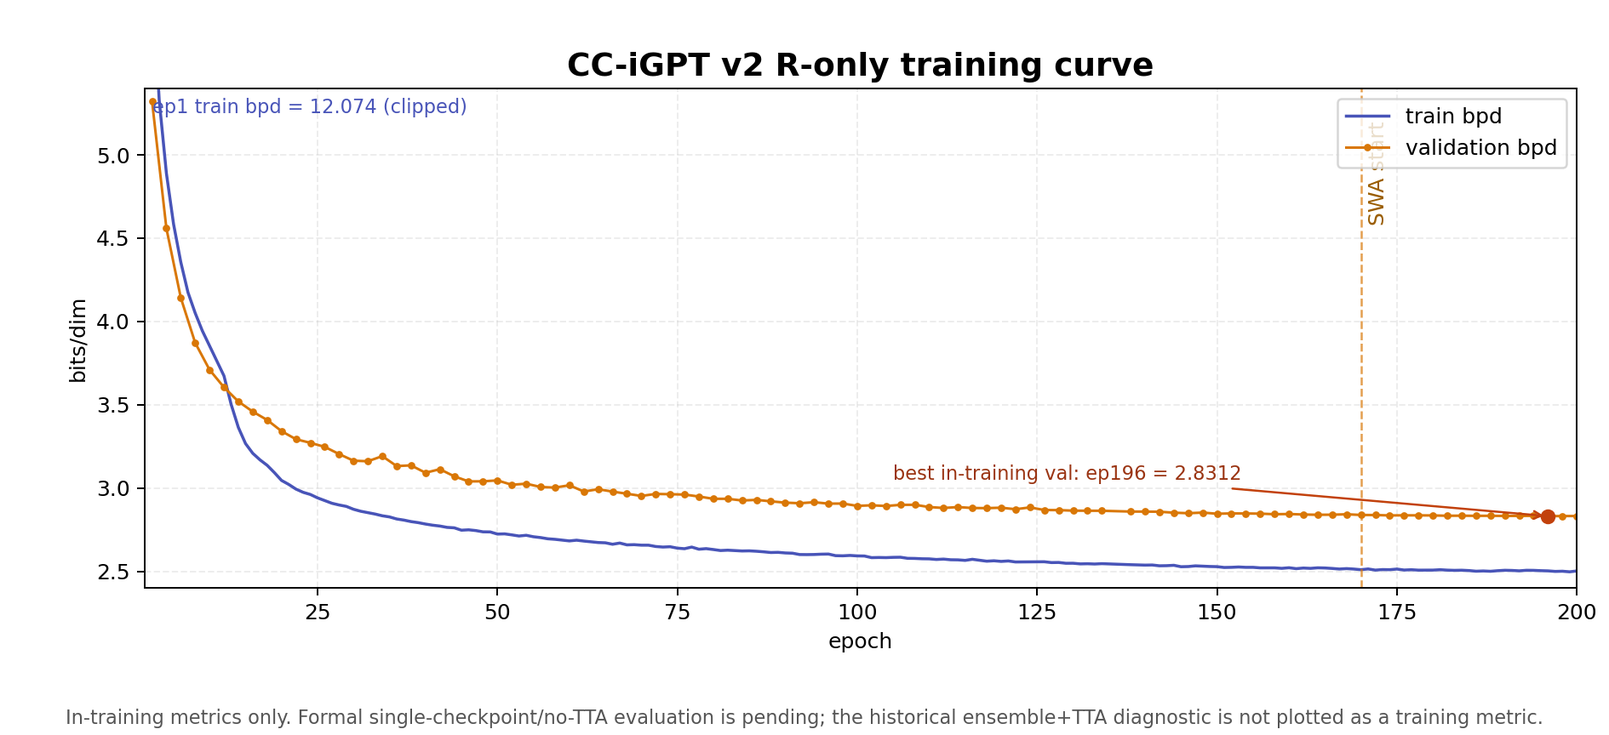
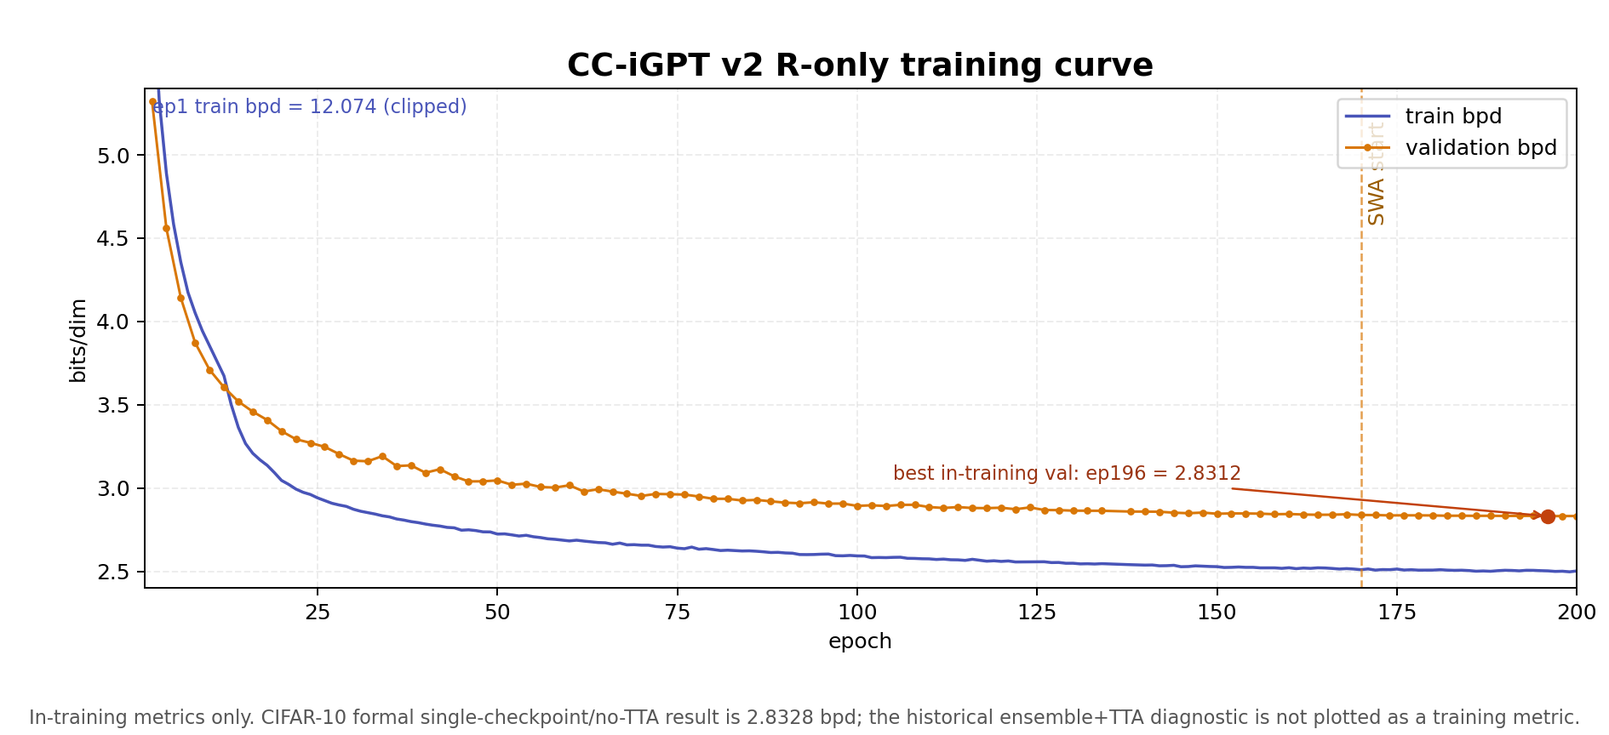
docs: sync formal CIFAR-10 roundtrip evidence

Changed region(s): [[0.0312, 0.9688, 0.9677, 1.0]]

diff --git a/demo/static/index.html b/demo/static/index.html
@@ -15,7 +15,7 @@
   <div class="dataset-toggle" role="radiogroup" aria-label="数据集切换">
     <label class="dataset-opt">
       <input type="radio" name="dataset-toggle" value="cifar10" checked>
-      <span>CIFAR-10 <small>legacy ens.+TTA 2.8296</small></span>
+      <span>CIFAR-10 <small>formal 2.8328; legacy ens.+TTA 2.8296</small></span>
     </label>
     <label class="dataset-opt">
       <input type="radio" name="dataset-toggle" value="imagenet64">

diff --git a/slides/defense.tex b/slides/defense.tex
@@ -159,7 +159,7 @@ p_\theta(x) \;=\; \prod_t p_\theta(x_t \mid x_{<t}),
 \end{frame}
 
 % ============================== 3. 历史结果与正式协议 ==============================
-\begin{frame}{历史实验：CIFAR-10 diagnostic protocol}
+\begin{frame}{CIFAR-10：历史诊断与正式评测}
 \begin{center}
 \includegraphics[width=0.92\linewidth]{baseline.png}
 \end{center}
@@ -171,7 +171,11 @@ p_\theta(x) \;=\; \prod_t p_\theta(x_t \mid x_{<t}),
 (82.95\,M/member, $K=3$ checkpoints, 200 ep, ensemble + TTA hflip, 6 forwards/image)
 
 \smallskip
-{\scriptsize 该协议下的历史实验结果，不作为单模型正式主表；CIFAR-10 正式结果待 single checkpoint / no-TTA / per-image manifest 重评。}
+\textbf{正式 single checkpoint / no-TTA}: \textcolor{ours}{\textbf{2.8328}} bpd
+(10,000 张，teacher-forced，bootstrap 95\% CI [2.8201, 2.8456])
+
+\smallskip
+{\scriptsize 2.8296 仅按 ensemble+TTA 诊断协议引用；2.8328 是正式单模型 teacher-forced NLL，二者都不等同于完整 arithmetic file bpd。}
 \end{frame}
 
 % ============================== 3b. ImageNet64 第二轨道（训练 2026-06-07；正式评测 2026-08-03） ==============================
@@ -407,7 +411,7 @@ $\to$ \texttt{re-tokenize} $\to$ \texttt{fine.token\_embed} $\to$ \texttt{AR shi
 \end{columns}
 
 \medskip
-{\centering\footnotesize\color{muted}图中与文中 ensemble+TTA 数字均为 diagnostic protocol 下的历史实验结果，不进入正式单模型主表。\par}
+{\centering\footnotesize\color{muted}图中同时标出正式 single/no-TTA 结果与 ensemble+TTA 历史诊断结果；二者协议和成本不同，不混作同一主表数字。\par}
 \end{frame}
 
 % ============================== 9. Triton Kernel (图) ==============================
@@ -596,7 +600,7 @@ representation 血脉承 iGPT，density 血脉承 Sparse Transformer（纯生成
 \textbf{Codec 证据边界}
 \begin{itemize}\setlength{\itemsep}{2pt}
   \item CPU：算术 coder、MDLC v2 容器、grouped codec 与 tiny-model roundtrip 已由测试覆盖
-  \item 真实 checkpoint 的 GPU roundtrip、文件 overhead 与跨环境复现仍待重跑
+  \item CIFAR-10 当前 identity-v2 manifest 已完成 2/2 GPU roundtrip；ImageNet64 仍待执行
   \item 历史 ensemble/TTA NLL 不是当前 codec 的文件码长
 \end{itemize}
 
@@ -604,7 +608,7 @@ representation 血脉承 iGPT，density 血脉承 Sparse Transformer（纯生成
 \textbf{结果}
 \begin{itemize}\setlength{\itemsep}{2pt}
   \item 当前可确认：CPU 单测覆盖的符号流与 tiny model 可 bit-identical roundtrip
-  \item 历史 2/2 图和 0.1--0.2\% overhead 尚无当前 schema v2 manifest，\alert{不作为正式结果}
+  \item CIFAR-10 当前 schema v5 附件验证 2/2 图 pixel-exact，并记录 payload / packed / file overhead
   \item {\scriptsize 正式回填需记录 checkpoint/config/CDF/runtime hash，并同时报告 payload bpd 与 file bpd。}
 \end{itemize}
 \end{column}
@@ -628,7 +632,7 @@ representation 血脉承 iGPT，density 血脉承 Sparse Transformer（纯生成
 
 \smallskip
 \textbf{3 分析} —— RGB-bit-exact 评估与 codec 对账 \\
-{\scriptsize 2.8296 / 3.4800 为三成员 ensemble+TTA 诊断协议下的历史实验结果；ImageNet64 正式 teacher-forced 单模型结果为 3.4812 bpd；CIFAR-10 正式主表、probe 与 GPU profiling 仍待按新协议回填。}
+{\scriptsize 2.8296 / 3.4800 为三成员 ensemble+TTA 诊断协议下的历史实验结果；CIFAR-10 / ImageNet64 正式 teacher-forced 单模型结果分别为 2.8328 / 3.4812 bpd；probe 与 GPU profiling 仍待按新协议回填。}
 \end{column}
 \begin{column}{0.50\textwidth}
 \small

diff --git a/figures/baselines.tex b/figures/baselines.tex
@@ -9,6 +9,8 @@
 %   Sparse Transformer  59M   2.80    Child et al., 2019 (128 层 strided)
 %   CC-iGPT v2 (historical experiment; diagnostic protocol) 82.95M/member (K=3) 2.8296
 %     R-only ensemble (best+SWA+EMA) + TTA hflip, 6 forwards/image；非正式单模型主表
+%   CC-iGPT v2 (formal protocol) 82.95M 2.8328
+%     single best.pth + no TTA + teacher-forced；10,000 张
 \documentclass[tikz,border=8pt]{standalone}
 \usepackage{tikz}
 \usepackage{pgfplots}
@@ -26,10 +28,9 @@
     ytick={2.70,2.75,2.80,2.82,2.85,2.90,2.95},
     ylabel={\textbf{bits/dim}\ },
     ylabel near ticks,
-    % 修复：明确指定所有5个x轴刻度，不再依赖xtick=data
-    xtick={SparseTrans, PixelSNAIL, ImgTrans, PixelCNNpp, Ours},
-    symbolic x coords={SparseTrans, PixelSNAIL, ImgTrans, PixelCNNpp, Ours},
-    xticklabels={Sparse Trans., PixelSNAIL, Img Trans., PixelCNN++, CC-iGPT(hist.)},
+    xtick={SparseTrans, PixelSNAIL, ImgTrans, PixelCNNpp, OursHist, OursFormal},
+    symbolic x coords={SparseTrans, PixelSNAIL, ImgTrans, PixelCNNpp, OursHist, OursFormal},
+    xticklabels={Sparse Trans., PixelSNAIL, Img Trans., PixelCNN++, CC-iGPT(hist.), CC-iGPT(formal)},
     xticklabel style={font=\scriptsize, yshift=-1pt},
     yticklabel style={font=\scriptsize},
     axis line style={gray!55},
@@ -48,9 +49,14 @@
     (PixelCNNpp,  2.92)
 };
 
-% 第5个柔和橘黄色柱子（单独绘制，完全独立，不会被覆盖）
+% 历史 ensemble+TTA 诊断柱
 \addplot[draw=orange!70!black, fill=orange!30!yellow!80, bar shift=0pt] coordinates {
-    (Ours, 2.8296)
+    (OursHist, 2.8296)
+};
+
+% 正式 single-checkpoint/no-TTA teacher-forced 柱
+\addplot[draw=teal!65!black, fill=teal!24, bar shift=0pt] coordinates {
+    (OursFormal, 2.8328)
 };
 
 % --- 参考线 1：PixelSNAIL 2.85；Ours 为不同成本、diagnostic protocol 下的历史实验，不作胜负结论 ---
@@ -72,13 +78,14 @@
 \node[font=\scriptsize, align=center, yshift=4pt] at (axis cs:PixelSNAIL, 2.85) {2.85 $\approx$91M};
 \node[font=\scriptsize, align=center, yshift=4pt] at (axis cs:ImgTrans, 2.90) {2.90 $\approx$40M};
 \node[font=\scriptsize, align=center, yshift=4pt] at (axis cs:PixelCNNpp, 2.92) {2.92 $\approx$53.5M};
-\node[font=\scriptsize, align=center, orange!70!black, yshift=4pt] at (axis cs:Ours, 2.8296) {2.8296\\82.95M/member, K=3};
+\node[font=\scriptsize, align=center, orange!70!black, yshift=4pt] at (axis cs:OursHist, 2.8296) {2.8296\\82.95M/member, K=3};
+\node[font=\scriptsize, align=center, teal!65!black, yshift=4pt] at (axis cs:OursFormal, 2.8328) {2.8328\\82.95M};
 
 \end{axis}
 
 % --- 标题 ---
 \node[font=\footnotesize\bfseries, anchor=south, yshift=3pt]
-    at (current bounding box.north) {CIFAR-10 RGB-bit-exact (historical ensemble+TTA diagnostic)};
+    at (current bounding box.north) {CIFAR-10 RGB-bit-exact (formal + historical protocols)};
 
 \end{tikzpicture}
 \end{document}

diff --git a/scripts/render_report_figures.py b/scripts/render_report_figures.py
@@ -20,6 +20,7 @@ def _method_label(name: str) -> str:
         "Sparse Transformer": "Sparse\nTransformer",
         "Image Transformer": "Image\nTransformer",
         "CC-iGPT R-only v2 (Ours)": "CC-iGPT v2\n(hist. ens.+TTA)",
+        "CC-iGPT R-only v2 formal (Ours)": "CC-iGPT v2\n(formal)",
     }
     return replacements.get(name, name.replace(" (Ours)", ""))
 
@@ -36,6 +37,7 @@ def render_cifar_baselines() -> None:
     labels = [_method_label(method["name"]) for method in methods]
     values = [method["bpd"] for method in methods]
     colors = [
+        "#2a9d8f" if method.get("primary") else
         "#f2b134" if "(Ours)" in method["name"] else "#b9c0e8"
         for method in methods
     ]
@@ -52,7 +54,7 @@ def render_cifar_baselines() -> None:
         params = method.get("params", "not reported")
         bpd = (
             f'{method["bpd"]:.4f}'
-            if method["name"] == "CC-iGPT R-only v2 (Ours)"
+            if "CC-iGPT" in method["name"]
             else f'{method["bpd"]:.2f}'
         )
         axis.text(
@@ -67,8 +69,8 @@ def render_cifar_baselines() -> None:
     fig.text(
         0.5,
         0.02,
-        "CC-iGPT 2.8296 is a historical 3-checkpoint probability mixture + hflip "
-        "(6 forwards/image), not the pending formal single-model result.",
+        "Formal single-checkpoint/no-TTA result: 2.8328 bpd; historical 2.8296 is a "
+        "3-checkpoint probability mixture + hflip diagnostic (6 forwards/image).",
         ha="center",
         fontsize=9,
         color="#9a5d00",
@@ -136,7 +138,7 @@ def render_cifar_training_curve() -> None:
     fig.text(
         0.5,
         0.015,
-        "In-training metrics only. CIFAR-10 formal single-checkpoint/no-TTA evaluation is pending; "
+        "In-training metrics only. CIFAR-10 formal single-checkpoint/no-TTA result is 2.8328 bpd; "
         "the historical ensemble+TTA diagnostic is not plotted as a training metric.",
         ha="center",
         fontsize=9,

diff --git a/figures/training_curves_v2.tex b/figures/training_curves_v2.tex
@@ -8,6 +8,7 @@
 %   landmark v2: ep1 train=12.07, ep10 val=3.34, ep90 val=2.879, ep170 SWA start, ep200 val=2.8322,
 %                ep196 best val=2.8312 (in-training, 无 TTA/SWA/EMA/ensemble)
 %   历史实验 v2（diagnostic protocol）：ensemble (best+SWA+EMA) + TTA hflip = 2.8296；旧 ±0.0854 口径已作废
+%   正式单模型/no-TTA teacher-forced 重评：2.8328 bpd（10,000 张）
 
 \documentclass[tikz,border=8pt]{standalone}
 \usepackage{tikz}
@@ -88,7 +89,7 @@
 % --- 副标题（实验配置） ---
 \node[font=\scriptsize, gray!50!black, anchor=north, yshift=-2pt]
     at (current bounding box.south)
-    {\textit{N=32/d=448 (82.95M) $\cdot$ warmup 5ep $\cdot$ EMA 0.9998 $\cdot$ SWA last 31 ckpts (start ep 170) $\cdot$ historical ensemble+TTA $=$ 2.8296; CIFAR-10 formal single-model result pending}};
+    {\textit{N=32/d=448 (82.95M) $\cdot$ warmup 5ep $\cdot$ EMA 0.9998 $\cdot$ SWA last 31 ckpts (start ep 170) $\cdot$ formal single/no-TTA teacher-forced $=$ 2.8328 $\cdot$ historical ensemble+TTA $=$ 2.8296}};
 
 \end{tikzpicture}
 \end{document}

diff --git a/figures/ensemble_compare.tex b/figures/ensemble_compare.tex
@@ -15,7 +15,7 @@
 % 参考线:
 %   v1 best+TTA 2.9035        — Phase B 历史实验（diagnostic protocol）
 %   PixelSNAIL 2.85           — 文献参考线；与三模型/TTA 配置不是同协议
-%   Sparse Transformer 2.80   — 文献参考线；CIFAR-10 正式比较等待单模型重评
+%   Sparse Transformer 2.80   — 文献参考线；CIFAR-10 正式 single/no-TTA 结果 2.8328
 
 \documentclass[tikz,border=8pt]{standalone}
 \usepackage{tikz}

diff --git a/future.md b/future.md
@@ -5,11 +5,11 @@
 ## 0. 2026-07-27 执行口径（优先级高于后文历史备忘）
 
 1. **当前主线不换模型、不改训练损失**：CC-iGPT 继续使用 `CE_coarse + CE_fine`。这是一种双流平衡训练目标，不等同于严格按真实码长加权；本轮代码修正不要求重训，也不使现有 checkpoint 失效。
-2. **正式结果分阶段更新**：CIFAR-10 `2.8296` 与 ImageNet64 `3.4800` 都是有效的历史实验结果，但其协议是三成员 ensemble + hflip TTA，在新 evaluator 中归入 diagnostic，而不是正式单模型主表。每个 CC-iGPT v2 checkpoint 是 `82,949,441` 参数；该协议加载 best/SWA/EMA 三组权重（K=3），而不是一个 248.85M 参数架构，hflip 后每张图共 6 次 forward。ImageNet64 已用现有 `best.pth` 完成 single-checkpoint/no-TTA teacher-forced 重评：`3.4812 bpd`（49,999 张，schema v5 manifest，逐图 std 0.9040，95% bootstrap CI `[3.4734, 3.4898]`）。CIFAR-10 仍需同协议重评；两者都不需要重训。
+2. **正式结果已完成**：CIFAR-10 `2.8296` 与 ImageNet64 `3.4800` 都是有效的历史实验结果，但其协议是三成员 ensemble + hflip TTA，在新 evaluator 中归入 diagnostic，而不是正式单模型主表。每个 CC-iGPT v2 checkpoint 是 `82,949,441` 参数；该协议加载 best/SWA/EMA 三组权重（K=3），而不是一个 248.85M 参数架构，hflip 后每张图共 6 次 forward。现有 `best.pth` 已完成两个数据集的 single-checkpoint/no-TTA teacher-forced 重评：CIFAR-10 **2.8328 bpd**（10,000 张，逐图 std 0.6719，95% bootstrap CI `[2.8201, 2.8456]`），ImageNet64 **3.4812 bpd**（49,999 张，逐图 std 0.9040，95% bootstrap CI `[3.4734, 3.4898]`）。CIFAR-10 另有 2 张 `verified_on_subset` sequential roundtrip，均 pixel-exact；两者都不需要重训。
 3. **Phase E 是并行研究分支，不替换 AR 无损主线**：目标是研究 Masked Diffusion Language Model (MDLM) / grouped ARDM 的 `实际码率 vs forward calls`，不是先承诺更低 bpd 或实时加速。Phase E 需要新的训练；现有 AR checkpoint 最多用于初始化兼容权重，不能直接当作 masked model 结果。
 4. **codec-first**：在任何大规模训练前，先用 tiny CIFAR/合成图完成真实 `encode -> file -> decode` 闭环。没有固定 schedule、可解码概率因式分解、量化 CDF 协议和逐像素一致测试，就不把 masked CE/NELBO 称为压缩率。
 5. **六层指标分开报告**：训练 masked CE/NELBO、固定 schedule 的理想模型 NLL、量化 CDF NLL、算术 payload bpd、字节 padding 后的 packed payload bpd、完整文件 bpd。另报 fine/total forward calls、wall-clock、峰值显存和硬件环境。
-6. **执行环境分工**：WSL 负责代码、CPU 测试和 `run_formal_evaluations.py --dry_run`；CIFAR-10 正式重评及 ImageNet64 的额外 codec roundtrip 在持有数据与 checkpoint 的 AutoDL 上运行。ImageNet64 teacher-forced manifest 已完成；无泄漏 probe/matched controls 和 CUDA backend matrix/profiling 暂缓，未执行前保持 pending，不阻塞本轮 evaluator/manifest 修复，也不据此推进 CC-MDLM 正式训练。
+6. **执行环境分工**：WSL 负责代码、CPU 测试和 `run_formal_evaluations.py --dry_run`；两个数据集的正式评测及 codec roundtrip 在持有数据与 checkpoint 的 AutoDL 上运行。CIFAR-10/ImageNet64 teacher-forced manifest 已完成；无泄漏 probe/matched controls 和 CUDA backend matrix/profiling 暂缓，未执行前保持 pending，不阻塞本轮 evaluator/manifest 修复，也不据此推进 CC-MDLM 正式训练。
 
 ### Phase E 的最小概率协议
 
@@ -39,9 +39,10 @@ q_theta(x_fine | x_coarse)
 
 ---
 
-## 1. 当前状态（截至 2026-08-03；Phase D 完成 2026-05-27，下游任务 + 前端无损面板 2026-05-29，IN64 训练完成 2026-06-07，正式 teacher-forced 重评完成 2026-08-03）
+## 1. 当前状态（截至 2026-08-04；Phase D 完成 2026-05-27，下游任务 + 前端无损面板 2026-05-29，IN64 训练完成 2026-06-07，CIFAR/IN64 正式 teacher-forced 重评完成 2026-08-04）
 
-- **CC-iGPT v2 历史实验结果（Phase D 完成，diagnostic protocol）**：ensemble (best+SWA+EMA) + TTA hflip = **2.8296 bpd**；旧 `±0.0854` 口径不作为新逐图 std。CIFAR-10 正式单模型/no-TTA 数字仍待重评（详 §0）
+- **CC-iGPT v2 历史实验结果（Phase D 完成，diagnostic protocol）**：ensemble (best+SWA+EMA) + TTA hflip = **2.8296 bpd**；旧 `±0.0854` 口径不作为新逐图 std。CIFAR-10 正式单模型/no-TTA 数字现为 **2.8328 bpd**（详 §0）
+- **CIFAR-10 正式 teacher-forced 结果（2026-08-04）**：single `best.pth` + no TTA = **2.8328 bpd**；10,000 张，逐图 std 0.6719，95% bootstrap CI `[2.8201, 2.8456]`。同一 codec identity 的 2 张 sequential roundtrip 已 `verified_on_subset`，均 pixel-exact；子集 mean payload `2.7074 bpd`、packed payload `2.7109 bpd`、完整 file `8.0703 bpd`，不外推到全量测试集。
 - **ImageNet64 正式 teacher-forced 结果（2026-08-03）**：single `best.pth` + no TTA = **3.4812 bpd**；49,999 张，逐图 std 0.9040，95% bootstrap CI `[3.4734, 3.4898]`，manifest 见 `results/formal/imagenet64/teacher_forced.json`。sequential roundtrip 尚未执行。
 - v1 历史 TTA 诊断：CC-iGPT R-only 100ep best+TTA 2.9035；旧 std 口径仅留作日志，不进入新协议比较
 - Linear probe 历史曲线 best L19 = **79.33%**；旧脚本曾用 test 选层，需按“训练集分层 validation 选层、完整 train 重训、selected layer test、多 seeds”协议重跑后再作为正式结果
@@ -57,7 +58,7 @@ q_theta(x_fine | x_coarse)
 | A — iGPT raster-scan AR + 6 个训练 primitive + 1 组合 pipeline + 1 反面案例 | ✅ | `src/mdlic/ops/` |
 | B — CC-iGPT v1 双尺度条件式 AR (100ep, R-only) | ✅ | best+TTA 2.9035 |
 | C — Demo 前端可视化 (FastAPI + Chart.js, 7 面板，含交互式无损 codec 图像⇄.bin 真实可解性验证) | ✅ | `demo/` |
-| D — 深窄 (N=32/d=448, 200ep) + 历史 ensemble/TTA 实验 | ✅ | diagnostic protocol 下 2.8296；ImageNet64 formal teacher-forced 3.4812；CIFAR-10 正式单模型仍待重评 |
+| D — 深窄 (N=32/d=448, 200ep) + 历史 ensemble/TTA 实验 | ✅ | diagnostic protocol 下 2.8296；CIFAR-10 formal 2.8328；ImageNet64 formal 3.4812 |
 | E — Masked diffusion / grouped ARDM codec | CPU 协议地基完成，训练 gated | 先复核 tiny roundtrip，再训练 CIFAR toy |
 
 详细组件、Triton kernel 列表、架构图见 README。
@@ -190,7 +191,7 @@ coarse_tokens  [B, 64]                       ← R-only int 0-255
 
 **Lever 2 — 多 checkpoint 概率 mixture**：`scripts/evaluate.py --ensemble best,swa,ema` 先对各成员 logits 做 `log_softmax`，再用 `logsumexp - log(K)` 得到逐 token 的算术平均概率。三档是同一训练轨迹的三种平滑（best=val 最优瞬点 / EMA=指数 / SWA=均匀），各自捕获不同 loss-landscape 邻域。
 
-**历史实验日志**：in-training best ep196 = 2.8312；ensemble + TTA hflip = 2.8296。数字可作为对应旧协议的实验观测引用，但不能替代 single-checkpoint/no-TTA 正式主表；正式数字由新 evaluator 使用预训练权重重跑产生。
+**历史实验日志**：in-training best ep196 = 2.8312；ensemble + TTA hflip = 2.8296。数字可作为对应旧协议的实验观测引用，但不能替代 single-checkpoint/no-TTA 正式主表；正式 CIFAR-10 数字现为 2.8328 bpd，完整统计和 roundtrip 证据以新 evaluator manifest 为准。
 
 ---
 
@@ -240,10 +241,10 @@ MSPA / YCbCr 色彩前端 / logit soft-capping / Gaussian label smoothing / slid
 
 - **代码**：`src/mdlic/codec/arithmetic.py`（手写 32-bit WNC 算术编码器，纯 Python，`pack_bits`/`unpack_bits` 字节打包逆操作）+ `tests/test_arithmetic_codec.py` + `src/mdlic/codec/container.py` + `tests/test_mdlc_container.py` + `scripts/verify_lossless.py`（roundtrip 主脚本）
 - **关键设计**：模型无 KV-cache → decode 每步跑完整 forward（前缀真实 token + 0 后缀，causal mask 保证不泄漏）；encode/decode 都走 per-step 同一函数 → logits 逐位相同 → 保证可逆；全程 fp32；token 0 用均匀先验；双尺度先解 coarse 独立 bitstream 重建 ctx 再解 fine
-- **范围**：CIFAR v2 已做真实 roundtrip；IN64 checkpoint 已存在，但 12288-token 逐步 codec 成本很高，未完成真实文件 roundtrip，不据此宣称可用速度
+- **范围**：CIFAR v2 已完成当前 identity-v2/schema v5 manifest 的 2/2 GPU roundtrip；IN64 checkpoint 已存在，但 12288-token 逐步 codec 成本很高，未完成真实文件 roundtrip，不据此宣称可用速度
 - **实测（2026-05-30，AutoDL，865s）**：**2/2 图 bit-identical**。img0 achieved 3.0931 bpd（NLL 3.0896，overhead 0.11%）/ img1 2.3216（NLL 2.3161，overhead 0.24%）。逐图 bpd 随图像复杂度变，关键是 **overhead vs NLL 仅 0.1–0.2%**（小正数）→ 报的 bpd = 真实可逆码长，算术编码近最优
 - **bitstream 落盘（MDLC v2，2026-07-26；identity-v2 于 2026-07-27）**：新编码默认写 32B fixed header + canonical JSON metadata + coarse/fine payload + 32B SHA-256。identity 绑定 checkpoint、model config、CDF、AR schedule、实现源码 fingerprint，以及 Python/PyTorch/Triton/CUDA/设备与 backend 数值 runtime；metadata 另存预处理 RGB SHA-256，解码结束强制核对。header/metadata/payload/checksum 任一区域位翻转，或 checkpoint/config/protocol/schedule/source/runtime 不同，均会拒绝。
-- **验证边界**：历史 2/2 AutoDL 真实图 roundtrip 使用 v1 容器；当前 MDLC v2 + identity-v2 已通过 CPU tiny-model、legacy inspect 和协议破坏测试。正式 evaluator schema v5 只在 config/checkpoint、数据 fingerprint、源码和 runtime 全匹配时附加 `verify_lossless --result_json` 的子集证明；仍需在 AutoDL 重跑后才能把 GPU 实测标签迁移到当前协议。
+- **验证边界**：历史 2/2 AutoDL 真实图 roundtrip 使用 v1 容器；当前 MDLC v2 + identity-v2 已通过 CPU tiny-model、legacy inspect、协议破坏测试，并在 CIFAR-10 上完成 2/2 GPU 子集验证。正式 evaluator schema v5 只在 config/checkpoint、数据 fingerprint、源码和 runtime 全匹配时附加 `verify_lossless --result_json` 的子集证明；ImageNet64 的 GPU roundtrip 仍未执行。
 
 ### 6.4 前端下游任务面板（codec / 补全，✅ 实现 2026-05-29~31 + AutoDL 已冒烟）
 
@@ -603,7 +604,7 @@ metrics: bpp, PSNR, MS-SSIM, LPIPS, FID
 
 #### E3.3 代码改造清单
 
-> **实现状态（2026-07-27）**：CPU 协议地基已完成。现有代码包含可序列化/哈希的 `MaskSchedule.raster_chunks`、独立 `MaskedIGPT.forward_masked`、`CCMDLM` fixed-group objective、组内概率冻结的 arithmetic codec，以及 100 个合成样本和 tiny 模型的文件级 roundtrip/NLL 对账。AR schema v5 evaluator、identity-v2 roundtrip manifest 和 AutoDL 正式重评 runner 已就绪，但正式 JSON 尚未在 AutoDL 生成；无泄漏 probe 与 CUDA backend/profiling 也保持 pending。因此没有 CC-MDLM bpd/速度结论，也未启动 E3 训练。
+> **实现状态（2026-08-04）**：CPU 协议地基已完成。现有代码包含可序列化/哈希的 `MaskSchedule.raster_chunks`、独立 `MaskedIGPT.forward_masked`、`CCMDLM` fixed-group objective、组内概率冻结的 arithmetic codec，以及 100 个合成样本和 tiny 模型的文件级 roundtrip/NLL 对账。AR schema v5 evaluator、identity-v2 roundtrip manifest 和 AutoDL 正式重评 runner 已就绪；CIFAR-10/ImageNet64 teacher-forced 评测已完成，CIFAR-10 2 张 GPU sequential roundtrip 已 `verified_on_subset`，ImageNet64 roundtrip 仍未执行。无泄漏 probe 与 CUDA backend/profiling 仍保持 pending。因此没有 CC-MDLM bpd/速度结论，也未启动 E3 训练。
 
 仅在 CIFAR-10 上，按低风险顺序：
 
@@ -634,7 +635,7 @@ metrics: bpp, PSNR, MS-SSIM, LPIPS, FID
 只有 E0–E4 的真实实验通过后，论文才可以采用以下叙事：
 
 1. **从“极致压缩”到“帕累托最优”**
-    *   **旧结果**：`2.8296` 是 ensemble+TTA 诊断协议下的历史实验结果，可以按该协议引用，但不能与单模型 codec 成本混写。
+    *   **旧结果**：`2.8296` 是 ensemble+TTA 诊断协议下的历史实验结果，可以按该协议引用，但不能与单模型 codec 成本混写；当前 CIFAR-10 single/no-TTA teacher-forced 结果为 `2.8328 bpd`。
     *   **候选新叙事**：报告离散图像无损压缩的 **`完整文件 bpd / 总 forward calls / 实测延迟`** 前沿，并逐点给出真实 roundtrip。只有测得的 rate gap 和 speedup 才能进入摘要。
 2. **MDL 理论的泛化**
     *   展示显式 grouped factorization 如何把 masked prediction 转成可解码的离散 code；NELBO 与实际文件码长的差异本身也是结果。
@@ -663,7 +664,7 @@ metrics: bpp, PSNR, MS-SSIM, LPIPS, FID
 
 ### 10.1 三个可让不同方向眼前一亮的卖点
 
-1. **diffusion / 生成模型方向** → 当前可诚实表述为："已有可解码 AR 无损基线，ImageNet64 已有 3.4812 bpd 的正式 teacher-forced 单模型 manifest；下一阶段研究显式 grouped masked factorization，先验证 NELBO、schedule NLL 与实际文件 bpd 的差异，再画 rate/calls/time 前沿。" `2.8296/3.4800` 作为明确标注协议的历史 ensemble+TTA 实验结果，不冒充单模型或 MDLM 实测；`3.4812` 也不冒充实际 arithmetic file bpd。
+1. **diffusion / 生成模型方向** → 当前可诚实表述为："已有可解码 AR 无损基线，CIFAR-10 与 ImageNet64 分别有 2.8328/3.4812 bpd 的正式 teacher-forced 单模型 manifest；下一阶段研究显式 grouped masked factorization，先验证 NELBO、schedule NLL 与实际文件 bpd 的差异，再画 rate/calls/time 前沿。" `2.8296/3.4800` 作为明确标注协议的历史 ensemble+TTA 实验结果，不冒充单模型或 MDLM 实测；`2.8328/3.4812` 也不冒充实际 arithmetic file bpd。
 2. **高效系统 / 编译 / 量化方向** → “训练栈含 6 个手写 Triton kernel；RoPE→FlashAttention 是两个 kernel 的 pipeline，不冒充额外 fusion；`fused_linear_ce` 是独立反面案例。基准 harness 已修正，旧 H800 数字待重跑后再作性能结论。”
 3. **信息论 / 编码方向** → "项目名源于 MDL；当前指标是预共享模型下的条件码长。手写 WNC 算术编解码做到 **bit-exact roundtrip**，并显式计入首 token、CDF 量化、padding 与容器开销。"
 

diff --git a/README.md b/README.md
@@ -8,13 +8,14 @@
 - **Phase B (历史实验完成)**: CC-iGPT（Coarse-Conditioned iGPT）双尺度条件自回归 — 浅层 coarse iGPT (R-only 配置 8×8×1, 64 token) 独立编码进 bitstream，UP + 量化后通过 additive embedding（可学习标量 α）注入 fine iGPT (32×32×3, 3072 token)。v1 的 **2.9035 bpd** 是 TTA 诊断协议下的历史实验结果，已被 v2 架构替代
 - **Phase C (完成)**: Demo 前端可视化系统 (FastAPI + Chart.js, 7 个展示面板，含交互式无损 codec 图像⇄.bin 真实可解性验证 + 图像补全 AR inpainting 实时面板)
 - **Phase D (历史实验完成, 2026-05-27)**: fine N=24/d=512 → N=32/d=448；每个 checkpoint 对应同一套 `82,949,441` 参数架构，训练 200 epoch 后产出 best/SWA/EMA 三组权重。`2.8296` 是三成员 probability-mixture ensemble + hflip TTA 协议下的历史实验结果：评测时加载 3 个 checkpoint，并对每张图执行 6 次 forward；在新 evaluator 中归类为诊断协议，旧 `±0.0854` 统计口径已作废
+- **CIFAR-10 formal benchmark (正式 teacher-forced 评测完成, 2026-08-04)**: 现有 `best.pth` 的单 checkpoint、no-TTA 正式结果为 **2.8328 bpd**（10,000 张，逐图 std `0.6719`，bootstrap 95% CI `[2.8201, 2.8456]`）。同一 codec identity 下的 2 张 sequential roundtrip 已 `verified_on_subset`：两张均 pixel-exact，manifest 已保存于 `results/formal/cifar10/`
 - **ImageNet64 benchmark (正式 teacher-forced 评测完成, 2026-08-03)**: 历史 `3.4800 bpd` 仍是三成员 ensemble + hflip TTA 诊断结果；现有 `best.pth` 的单 checkpoint、no-TTA 正式结果为 **3.4812 bpd**（49,999 张，逐图 std `0.9040`，bootstrap 95% CI `[3.4734, 3.4898]`）。schema v5 manifest 记录实际 `.npy` 样本数、数据文件 SHA-256 和运行环境；sequential roundtrip 尚未执行
 
 ## 当前进度
 
 | 模块 | 状态 | 备注 |
 |---|---|---|
-| CIFAR-10 v2 正式主表 | 待重评 | 单 checkpoint、no-TTA、逐图统计与 manifest；ensemble+TTA 历史实验结果为 **2.8296 bpd**（诊断协议） |
+| CIFAR-10 v2 正式主表 | 已重评（teacher-forced） | 单 `best.pth`、no-TTA：**2.8328 bpd**；10,000 张，95% bootstrap CI `[2.8201, 2.8456]`；2 张 sequential `verified_on_subset`，均 pixel-exact |
 | Linear probe | 待重跑 | 旧 `79.33%/73.19%` 曲线曾用 test 选层；新脚本改为 validation 选层、多 classifier seeds、完整 train 重训、最终单层 test |
 | Demo 前端 | 完成 | 7 面板；保留 upload / metrics / probe / kernels / scales / completion / codec |
 | 辅助实验 | CLI 已收敛 | 保留 `linear_probe.py`、`complete_image.py`、`verify_lossless.py`；直接调用脚本，不再维护批量包装层 |
@@ -32,7 +33,7 @@
 | PixelSNAIL | Autoregressive | ≈91M | 2.85 | RGB-bit-exact | Chen et al., ICML 2018 |
 | Sparse Transformer | Autoregressive | 59M | 2.80 | RGB-bit-exact | Child et al., 2019 (128 层 strided sparse attention) |
 | CC-iGPT v2 (Ours, historical experiment; diagnostic protocol) | Autoregressive ensemble | 82.95M/member (K=3) | 2.8296 | RGB-bit-exact | best/SWA/EMA probability mixture + hflip TTA；6 forwards/image；非正式单模型主表 |
-| **CC-iGPT v2 (Ours, formal protocol)** | Autoregressive | 82.95M | **待重评** | RGB-bit-exact | 单 checkpoint、no-TTA、逐图统计与 manifest |
+| **CC-iGPT v2 (Ours, formal protocol)** | Autoregressive | 82.95M | **2.8328** | RGB-bit-exact | 单 `best.pth`、no-TTA、10,000 张；schema v5 manifest；teacher-forced ideal-model NLL |
 | PNG | Classical codec | — | 5.87 | RGB-bit-exact | 本项目全量 CIFAR-10 test 实测；Pillow PNG `optimize=True` |
 | WebP (lossless) | Classical codec | — | 4.61 | RGB-bit-exact | 本项目全量 CIFAR-10 test 实测；Pillow WebP `lossless=True` |
 
@@ -40,7 +41,7 @@
 
 > **传统 codec 复核（2026-07-26）**：CIFAR-10 test 10,000 张、分母 `32×32×3`。Pillow 12.2.0 / zlib 1.3 下 PNG `optimize=True` 为 `5.866397656 bpd`；Pillow 12.2.0 / libwebp 1.6.0 下 WebP `lossless=True` 为 `4.606462500 bpd`。两者解码后均为 0 张像素不一致；完整协议与数据哈希见 [`demo/data/traditional_codecs.json`](demo/data/traditional_codecs.json)。
 
-`82.95M` 是一个 checkpoint 内去除 tied embedding/head 重复引用后的可训练参数量。best/SWA/EMA 是同一架构、同一训练轨迹导出的三组权重，不应表述成一个“248.85M 参数模型”；但复现 `2.8296` 时仍需加载三个完整 checkpoint，并执行 3 members × 2 flips = 6 次 forward。该结果可以引用，但必须连同 probability-mixture ensemble + hflip TTA 协议一起引用。它不是单模型结果，也不是当前 MDLC codec 的实际文件码率。CIFAR-10 正式比较仍等待用现有预训练 best checkpoint 做 single-checkpoint/no-TTA 重评，不需要重新训练；ImageNet64 正式结果已见下表。
+`82.95M` 是一个 checkpoint 内去除 tied embedding/head 重复引用后的可训练参数量。best/SWA/EMA 是同一架构、同一训练轨迹导出的三组权重，不应表述成一个“248.85M 参数模型”；但复现 `2.8296` 时仍需加载三个完整 checkpoint，并执行 3 members × 2 flips = 6 次 forward。该结果可以引用，但必须连同 probability-mixture ensemble + hflip TTA 协议一起引用。它不是单模型结果，也不是当前 MDLC codec 的实际文件码率。CIFAR-10 正式单模型 teacher-forced 结果现为 `2.8328 bpd`，完整 manifest 见 [`results/formal/cifar10/teacher_forced.json`](results/formal/cifar10/teacher_forced.json)；ImageNet64 正式结果见下表。
 
 ### ImageNet 64×64 对比
 
@@ -105,7 +106,8 @@ python3 scripts/run_formal_evaluations.py imagenet64 \
     --nproc_per_node 4 --dry_run
 
 # AutoDL：用已有 best.pth 重评 CIFAR-10；不需要重训
-python3 scripts/run_formal_evaluations.py cifar10 --verify_cifar_images 2
+python3 scripts/run_formal_evaluations.py cifar10 \
+    --nproc_per_node 1 --cifar_batch_size 48 --verify_cifar_images 2
 
 # AutoDL：ImageNet64 full-set teacher-forced；单 H800 示例
 python3 scripts/run_formal_evaluations.py imagenet64 \
@@ -435,7 +437,7 @@ scripts/       train.py, evaluate.py, run_formal_evaluations.py, linear_probe.py
                prepare_imagenet64_png.py, prepare_imagenet64_streaming.py
 configs/       igpt_cifar10_s_rgb,
                ccigpt_cifar10_s_rgb_ronly      (R-only v1 历史实验/diagnostic protocol, 100ep, 已被 v2 替代),
-               ccigpt_cifar10_s_rgb_ronly_v2   (深窄 N=32/d=448 + 200ep；正式单模型结果待重评),
+               ccigpt_cifar10_s_rgb_ronly_v2   (深窄 N=32/d=448 + 200ep；formal 2.8328 bpd，2-image roundtrip verified),
                ccigpt_imagenet64_v1            (ImageNet64 12ep；formal 3.4812 bpd，roundtrip pending)
 tests/         单元测试（含 test_ccigpt_smoke / test_arithmetic_codec）
 demo/

diff --git a/results/formal/README.md b/results/formal/README.md
@@ -53,3 +53,17 @@ The result uses fp32 logits and fp64 softmax, with one model member and one
 forward per image. `sequential_roundtrip.status` remains `not_run`; the score is
 therefore an ideal-model teacher-forced NLL, not a measured arithmetic payload
 or complete-file rate.
+
+The completed AutoDL CIFAR-10 run reports the following formal score:
+
+| Protocol | Samples | bpd | Per-image std | Bootstrap 95% CI |
+|---|---:|---:|---:|---:|
+| single `best.pth`, no TTA, teacher-forced | 10,000 | **2.8328** | 0.6719 | [2.8201, 2.8456] |
+
+This score uses the same fp32-logit/fp64-softmax teacher-forced protocol. The
+tracked `cifar10/sequential_roundtrip.json` reports `verified_on_subset` for
+sample indices 0 and 1: both images are pixel-exact, integrity-verified, and
+RGB-checksum-verified under the same codec identity. On this two-image subset,
+mean payload bpd is 2.7074, packed payload bpd is 2.7109, and complete-file bpd
+is 8.0703. These payload/file rates are subset measurements, not the full-set
+teacher-forced score.
